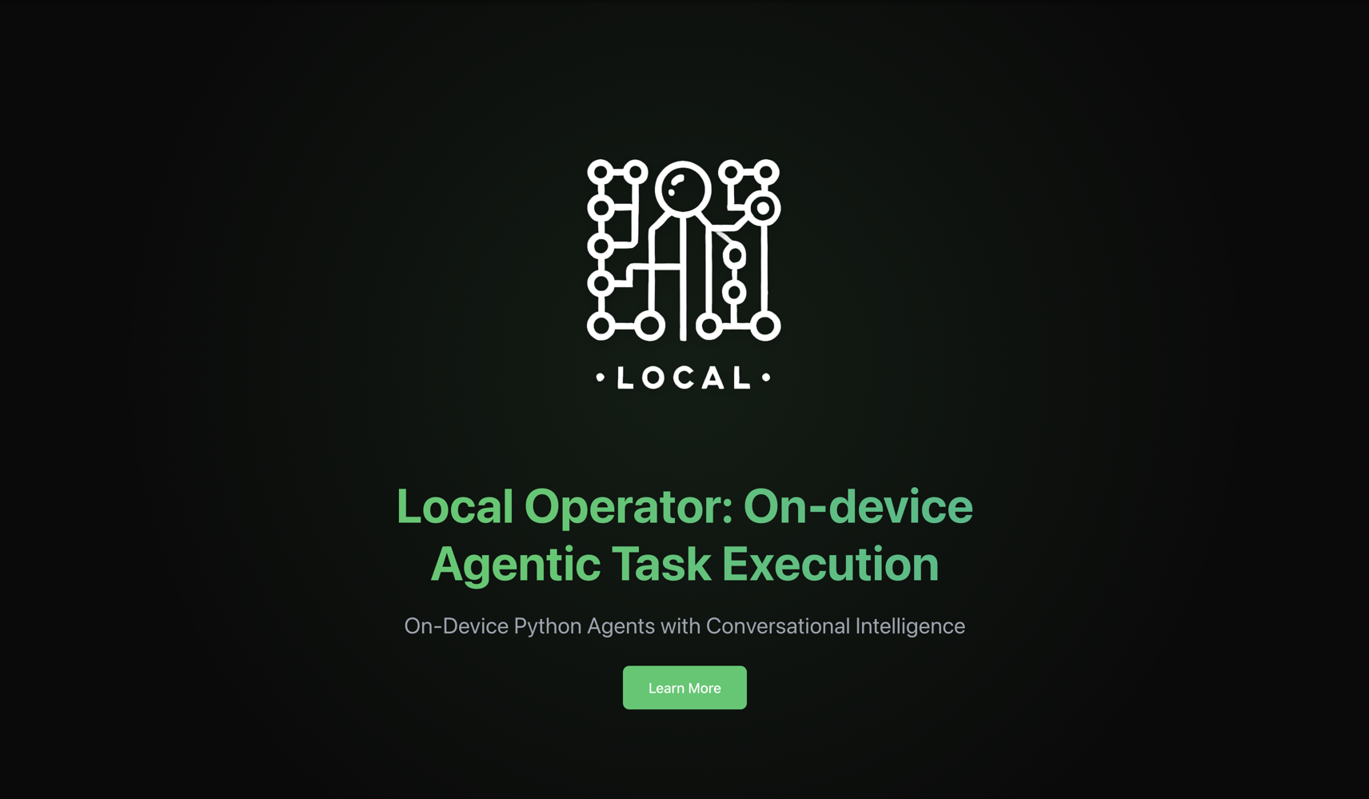
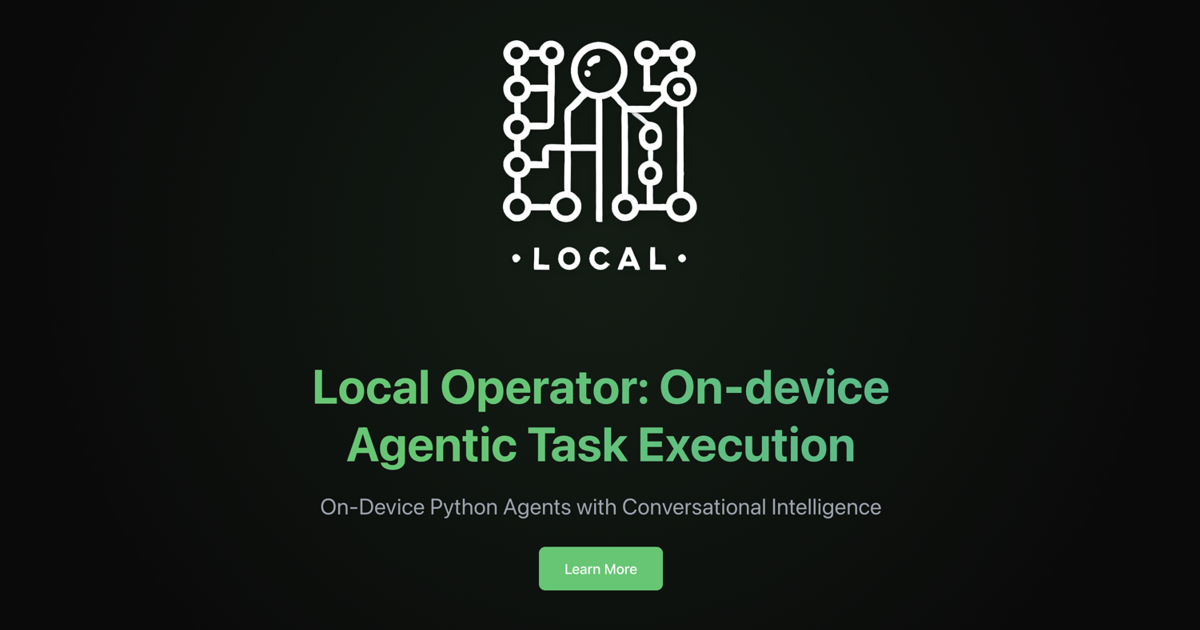
Resize preview to optimal dims (1200x630)

Changed region(s): [[0.2467, 0.573, 0.74, 0.9651], [0.4008, 0.0603, 0.5858, 0.4825]]

diff --git a/index.html b/index.html
@@ -17,8 +17,8 @@
   <meta property="og:type" content="website" />
   <meta property="og:url" content="https://local-operator.com" />
   <meta property="og:image" content="https://local-operator.com/preview.png" />
-  <meta property="og:image:width" content="1712" />
-  <meta property="og:image:height" content="999" />
+  <meta property="og:image:width" content="1200" />
+  <meta property="og:image:height" content="630" />
   <meta property="og:locale" content="en_US" />
   <meta property="og:site_name" content="Local Operator" />
 
